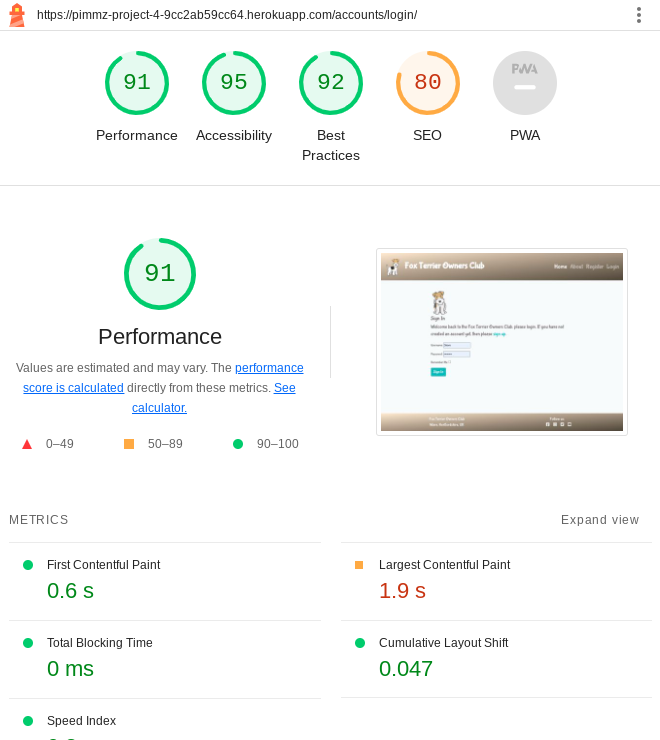
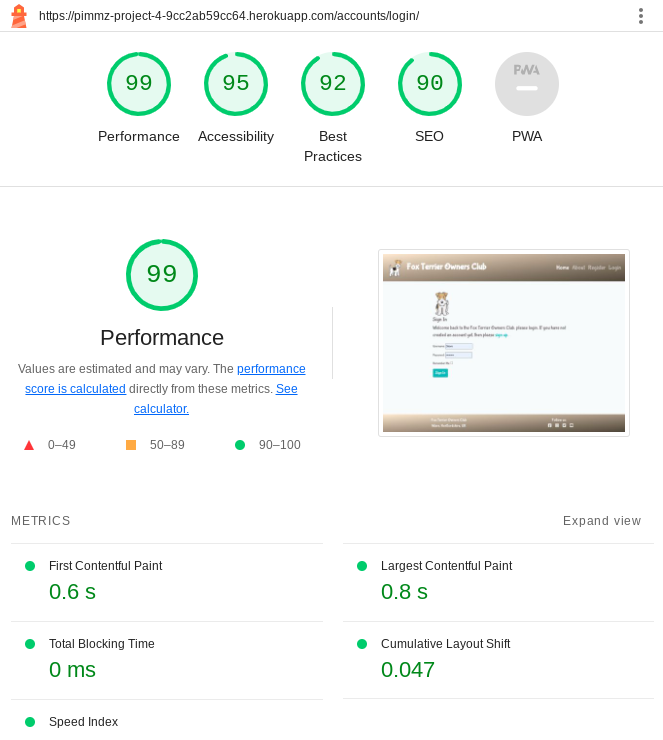
Testing md file updated with lighthouse

diff --git a/TESTING.md b/TESTING.md
@@ -120,20 +120,20 @@ Desktop
 | Home | Desktop | ![screenshot](documentation/testing_images/lighthouse/homelight.png) | Few warnings |
 | About | Desktop | ![screenshot](documentation/testing_images/lighthouse/aboutlight.png) | Few warnings |
 | Register | Desktop | ![screenshot](documentation/testing_images/lighthouse/registerlight.png) | Some minor warnings |
-| Login | Desktop | ![screenshot](documentation/testing_images/lighthouse/loginlight.png) | Few warnings on SEO|
-| Adoption | Desktop | ![screenshot](documentation/) | Slow response time due to large images |
-| Adoption Page | Desktop | ![screenshot](documentation) |  |
+| Login | Desktop | ![screenshot](documentation/testing_images/lighthouse/loginlight.png) | Worked as expected|
+| Adoption | Desktop | ![screenshot](documentation/testing_images/lighthouse/adoptlight.png) | Good overall though average accessibility due to form labels |
+| Adoption Detail Page | Desktop | ![screenshot](documentation) |  |
 | Adoption Update Page | Desktop | ![screenshot](documentation) |  |
 | Adoption Delete Page | Desktop | ![screenshot](documentation) |  |
 | Rehome Page | Desktop | ![screenshot](documentation) |  |
+| Rehome Detail Page | Desktop | ![screenshot](documentation) |  |
 | Rehome Update Page | Desktop | ![screenshot](documentation) |  |
 | Rehome Delete Page | Desktop | ![screenshot](documentation) |  |
 | Post Room Page | Desktop | ![screenshot](documentation) |  |
 | Post Room Update Page | Desktop | ![screenshot](documentation) |  |
 | Post Room Delete Page | Desktop | ![screenshot](documentation) |  |
 | Comment Room Page | Desktop | ![screenshot](documentation) |  |
-| Adoption Detail Page | Desktop | ![screenshot](documentation) |  |
-| Rehome Detail Page | Desktop | ![screenshot](documentation) |  |
+
 
 Mobile
 | Page | Size | Screenshot | Notes |
@@ -141,12 +141,13 @@ Mobile
 | Home | Mobile | ![screenshot](documentation/testing_images/lighthouse/homemoblight.png) | Slow response time due to giph and images. Compressed and using cloudinary to be more effective. |
 | About | Mobile | ![screenshot](documentation/testing_images/lighthouse/aboutmoblight.png) | Average performance score due to giph and images|
 | Register | Desktop | ![screenshot](documentation/testing_images/lighthouse/regestermoblight.png) | Average performance score due to giph. loaded to cloudinary to be more effective |
-| Login | Desktop | ![screenshot](documentation/lighthouse-about-desktop.png) | Few warnings |
-| Adoption | Desktop | ![screenshot](documentation/lighthouse-gallery-mobile.png) | Slow response time due to images from cloudinary |
-| Adoption Page | Desktop | ![screenshot](documentation) |  |
+| Login | Desktop | ![screenshot](documentation/testing_images/lighthouse/loginmoblight.png) | Average performance score due to giph and images |
+| Adoption | Desktop | ![screenshot](documentation/testing_images/lighthouse/adoptmoblight.png) |  Average performance score due to giph and accessibility due to form labels|
+| Adoption Detail Page | Desktop | ![screenshot](documentation) |  |
 | Adoption Update Page | Desktop | ![screenshot](documentation) |  |
 | Adoption Delete Page | Desktop | ![screenshot](documentation) |  |
 | Rehome Page | Desktop | ![screenshot](documentation) |  |
+| Rehome Detail Page | Desktop | ![screenshot](documentation) |  |
 | Rehome Update Page | Desktop | ![screenshot](documentation) |  |
 | Rehome Delete Page | Desktop | ![screenshot](documentation) |  |
 | Post Room Page | Desktop | ![screenshot](documentation) |  |
@@ -154,7 +155,7 @@ Mobile
 | Post Room Delete Page | Desktop | ![screenshot](documentation) |  |
 | Comment Room Page | Desktop | ![screenshot](documentation) |  |
 | Adoption Detail Page | Desktop | ![screenshot](documentation) |  |
-| Rehome Detail Page | Desktop | ![screenshot](documentation) |  |
+
 ## Defensive Programming
 
 ⚠⚠⚠⚠⚠ START OF NOTES (to be deleted) ⚠⚠⚠⚠⚠
